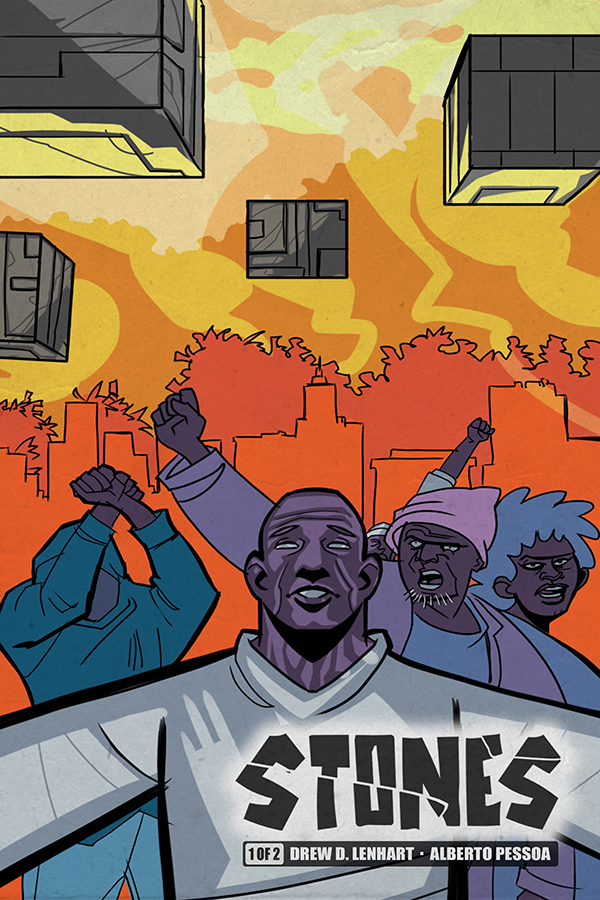
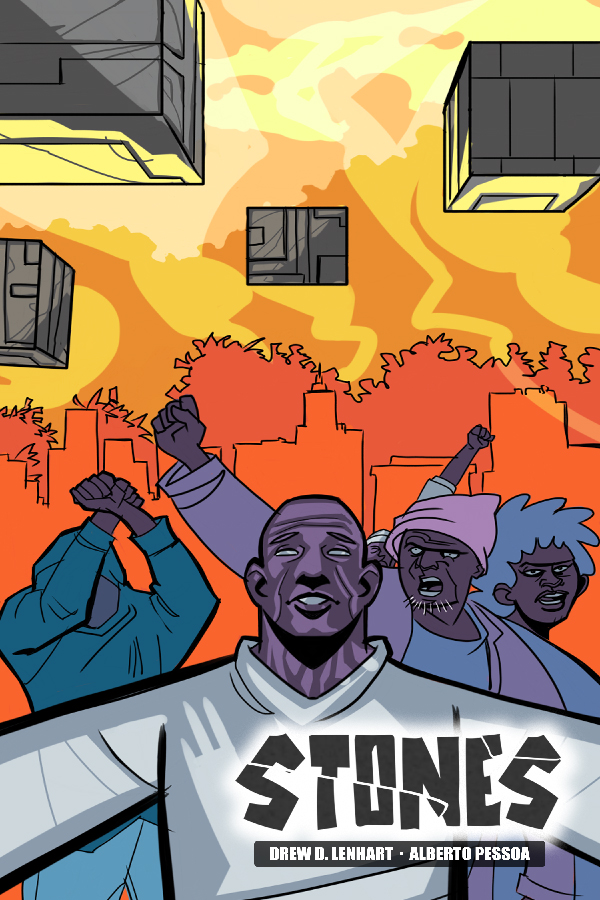
last updates

diff --git a/comics/stones-comic.html b/comics/stones-comic.html
@@ -1,13 +1,8 @@
 <div style="margin: 0 auto !important">
-  <center>
-    <img src="images/stones-logo.jpg" width="420" height="133" class="compImg" />
-  </center>
-  <br /><br />
   <div class="panel-body">
     <div class="row">
       <div class="col-md-6" style="padding-bottom: 15px">
         <p class="justify" style="font-size: 18px !important;">
-          <strong><em>Issue #1 of 2</em></strong><br /><br />
           When mysterious objects from space change the course of history, how will the human race cope with such a force?
           Acceptance or destruction? Stones collects the first two stories in a four-story collection.<br /><br />
 
@@ -20,12 +15,11 @@
           Beautiful artwork by Alberto Pessoa and written by Drew D. Lenhart<br /><br />
           Reviews:<br />
           <a href="http://majorspoilers.com/2020/05/01/stones-1-review/" target="_blank">Major Spoilers</a>
-          <br /><br /><strong>Released April 29, 2020</strong>
+          <br /><br /><strong>Released August 10, 2021</strong>
         </p>
         <strong><em>Support us by purchasing a digital copy from one of these platforms:</em></strong><br /><br />
-        <a href="https://www.comixology.com/Stones-01/digital-comic/856666" target="_blank" class="btn btn-primary btn-sm">Comixology</a>
-        <a href="https://www.drivethrucomics.com/product/314738/Stones-1" target="_blank" class="btn btn-primary btn-sm">DriveThruComics</a>
-        <a href="https://www.spinwhizcomics.com/site/comics/snowyworks/stones-1" target="_blank" class="btn btn-primary btn-sm">Spinwhiz Comics</a>
+        <a href="https://www.amazon.com/Stones-Drew-D-Lenhart-ebook/dp/B09CDFZ9MQ" target="_blank" class="btn btn-primary btn-sm">Kindle</a>
+        <a href="https://www.drivethrucomics.com/en/product/387530/stones" target="_blank" class="btn btn-primary btn-sm">DriveThruComics</a>
         <br /><br />
       </div>
       <div class="col-md-6">

diff --git a/index.html b/index.html
@@ -22,7 +22,7 @@ Date: June 2017 - updated 07-28-2023
     <script src="/vendor/htmx.min.js"></script>
 	  <script src="/vendor/client-side-templates.js"></script>
     <script src="/vendor/nunjucks.min.js"></script>
-    <link href="/css/snowtemplate.css?v=21" rel="stylesheet" type="text/css" />
+    <link href="/css/snowtemplate.css?v=22" rel="stylesheet" type="text/css" />
     <link type="text/css" rel="stylesheet" href="/fontawesome/css/all.min.css" />
   </head>
 
@@ -309,7 +309,7 @@ Date: June 2017 - updated 07-28-2023
         </div>
       </div>
 
-      <div id="" class="jumbotron bg-img">
+      <div id="" class="jumbotron jumbotron-override bg-img">
         <div class="container">
           <div class="row">
             <!-- Advertisement -->
@@ -921,7 +921,7 @@ Date: June 2017 - updated 07-28-2023
       >
         <div class="row">
           <div class="col-md-8 bottom-footer" style="color: #999 !important">
-            Copyright 2018-2024 SnowyWorks LLC. Designed by
+            Copyright 2018-2025 SnowyWorks LLC. Designed by
             <a href="https://drewlenhart.com">Drew D. Lenhart</a> <br />
             <div id="digitalBox">
               <em

diff --git a/comics/deaged-comic.html b/comics/deaged-comic.html
@@ -1,8 +1,4 @@
 <div style="margin: 0 auto !important">
-  <center>
-    <img src="images/deaged_logo.png" width="485" height="173" class="compImg" />
-  </center>
-  <br /><br />
   <div class="panel-body">
     <div class="row">
       <div class="col-md-6" style="padding-bottom: 15px">

diff --git a/comics/omth-comic.html b/comics/omth-comic.html
@@ -1,8 +1,4 @@
 <div style="margin: 0 auto !important">
-  <center>
-    <img src="images/horrorLogo.png" width="485" height="173" class="compImg" />
-  </center>
-  <br /><br />
   <div class="panel-body">
     <div class="row">
       <div class="col-md-6" style="padding-bottom: 15px">

diff --git a/comics/fscifi4-comic.html b/comics/fscifi4-comic.html
@@ -1,8 +1,4 @@
 <div style="margin: 0 auto !important">
-  <center>
-    <img src="images/fscifilogo.png" class="compImg" />
-  </center>
-  <br /><br />
   <div class="panel-body">
     <div class="row">
       <div class="col-md-6" style="padding-bottom: 15px">

diff --git a/css/snowtemplate.css b/css/snowtemplate.css
@@ -24,7 +24,7 @@ video {
 
 .jumbotron-override {
   padding-top: 15px !important;
-  padding-bottom: 10px !important;
+  padding-bottom: 1px !important;
 }
 
 a.link {
